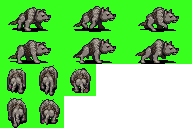
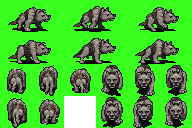
finalise example with two controllers

Changed region(s): [[0.5, 0.5, 1.0, 1.0]]

diff --git a/pyxelutils/examples/sprite_anim.py b/pyxelutils/examples/sprite_anim.py
@@ -2,45 +2,28 @@ from pathlib import Path
 
 import setuptools
 
-from pyxelutils.pyxelutils import color, core, sprite
+from pyxelutils.pyxelutils import color, core, sprite, controllers, text
 import pyxel
 
 
-class ControllerDir(core.BaseGameObject):
-    def __init__(self):
-        self.direction = [0,0]
-
-    def update(self):
-        self.direction = [0, 0]
-        if pyxel.btn(pyxel.KEY_UP) and pyxel.btn(pyxel.KEY_LEFT):
-            self.direction[0] = -1
-            self.direction[1] = -1
-        elif pyxel.btn(pyxel.KEY_UP) and pyxel.btn(pyxel.KEY_RIGHT):
-            self.direction[0] = 1
-            self.direction[1] = -1
-        elif pyxel.btn(pyxel.KEY_DOWN) and pyxel.btn(pyxel.KEY_LEFT):
-            self.direction[0] = -1
-            self.direction[1] = 1
-        elif pyxel.btn(pyxel.KEY_DOWN) and pyxel.btn(pyxel.KEY_RIGHT):
-            self.direction[0] = 1
-            self.direction[1] = 1
-        elif pyxel.btn(pyxel.KEY_LEFT):
-            self.direction[0] = -1
-        elif pyxel.btn(pyxel.KEY_RIGHT):
-            self.direction[0] = 1
-        elif pyxel.btn(pyxel.KEY_UP):
-            self.direction[1] = -1
-        elif pyxel.btn(pyxel.KEY_DOWN):
-            self.direction[1] = 1
-        elif pyxel.btn(pyxel.KEY_UP) and pyxel.btn(pyxel.KEY_LEFT):
-            self.direction[0] = -1
-            self.direction[1] = -1
-
-    def draw(self):
-        pass
+class ActionWalkToClick(sprite.Action):
+    def logic(self):
+        if self.ctrl.pos:
+            if self.x == self.ctrl.pos[0]:
+                self.active.stop()
+            else:
+                if self.ctrl.pos[0] < self.x:
+                    self.active.flip_w = True
+                else:
+                    self.active.flip_w = False
+                self.active = 'side_walk'
+                self.active.start()
+                self.move_until(self.ctrl.pos[0], self.ctrl.pos[1])
+        else:
+            self.active.stop()
 
 
-class ActionWalkSide(sprite.Action):
+class ActionWalk(sprite.Action):
     def logic(self):
         if self.ctrl.direction[0] < 0:
             self.active = 'side_walk'
@@ -53,6 +36,9 @@ class ActionWalkSide(sprite.Action):
         if self.ctrl.direction[1] < 0:
             self.active = 'up_walk'
             self.active.start()
+        if self.ctrl.direction[1] > 0:
+            self.active = 'down_walk'
+            self.active.start()
         if self.ctrl.direction == [0,0]:
             self.active.stop()
         else:
@@ -60,7 +46,14 @@ class ActionWalkSide(sprite.Action):
             self.y += self.ctrl.direction[1]
 
 
+class SwitchLevelPushBtn(core.BaseGameObject):
+    def update(self):
+        if pyxel.btnp(pyxel.KEY_SPACE):
+            print("switch level")
+            core.BaseGame.level_manager.next() or core.BaseGame.level_manager.previous()
 
+    def draw(self):
+        pass
 
 
 class Game(core.BaseGame, pyxel=pyxel, w=256, h=224, cls_color=1):
@@ -78,11 +71,31 @@ class Game(core.BaseGame, pyxel=pyxel, w=256, h=224, cls_color=1):
                                             [(0, 2), (1, 2), (2, 2), (0, 3), (1, 3)],
                                             5, trsp_col=9)
 
-        self.ctrl = ControllerDir()
-        # self.action = ActionWalkSide([self.sprite_side_walk], self.ctrl)
-        self.action = ActionWalkSide(50, 50, 'walk', self.ctrl)
+        self.sprite_down_walk = sprite.Sprite(0, 0, 0, 0, 0, 32, 32,
+                                            [(3, 2), (4, 2), (5, 2), (3, 3), (4, 3), (5, 3)],
+                                            5, trsp_col=9)
+
+        self.ctrl = controllers.DirectionalKeysCtrl()
+        self.action = ActionWalk(50, 50, 'walk', self.ctrl)
         self.action.add_sprite('side_walk', self.sprite_side_walk)
         self.action.add_sprite('up_walk', self.sprite_up_walk, offset_x=15)
+        self.action.add_sprite('down_walk', self.sprite_down_walk, offset_x=15)
+
+        self.txt = text.Simple(30, 200, "SPACE BAR to switch controller")
+
+        self.pp = SwitchLevelPushBtn()
+
+        with self.level_manager.new_level('cltr_click'):
+
+            self.level_manager.add_instance_object(self.pp)
+            self.level_manager.add_instance_object(self.txt)
+
+            self.sprite_side_walk = sprite.Sprite(50, 50, 0, 0, 0, 64, 32,
+                                                  [(0, 0), (1, 0), (2, 0), (0, 1), (1, 1), (2, 1)],
+                                                  5, trsp_col=9)
+            self.ctrl = controllers.MousePointToGround((50, 50, 150, 150), offset_x=-32)
+            self.action = ActionWalkToClick(50, 50, 'walk', self.ctrl)
+            self.action.add_sprite('side_walk', self.sprite_side_walk)
 
         self.run_game()
 

diff --git a/pyxelutils/sprite.py b/pyxelutils/sprite.py
@@ -52,6 +52,7 @@ class Sprite(BaseSprite):
                 count += 1
                 if count == len(lst):
                     count = 0
+        self.generator_def = generator
 
         self.sprite_range = sprite_range
         self.fdps = frame_duration_per_sprite
@@ -60,8 +61,11 @@ class Sprite(BaseSprite):
         self.last_animated_index = next(self.index_generator)
 
         self._stop = False
+        self._play_once = False
 
     def update(self):
+        if self._play_once and self.last_animated_index == self.sprite_range[-1]:
+            return
         if not self._stop and pyxel.frame_count % self.fdps == 0:
             self.last_animated_index = next(self.index_generator)
 
@@ -72,13 +76,19 @@ class Sprite(BaseSprite):
         self.v = v
 
     def reset(self):
-        self.last_animated_index = self.sprite_range[0]
+        self.last_animated_index = self.generator_def(self.sprite_range)
+        self._play_once = False
 
     def start(self):
         self._stop = False
+        self._play_once = False
 
     def stop(self):
         self._stop = True
+
+    def play_once(self):
+        self.reset()
+        self._play_once = True
 
 
 class Action(core.BaseGameObject):
@@ -90,6 +100,8 @@ class Action(core.BaseGameObject):
         self.sprites = dict()
 
         self._active = None
+        self._move_until = ()
+        self._move_until_speed = 1
 
     def add_sprite(self, name: str, sprite: Sprite, offset_x: int = 0, offset_y: int = 0):
         sprite.stop()
@@ -131,5 +143,21 @@ class Action(core.BaseGameObject):
     def update(self):
         self.logic()
         for sprite in self.sprites.values():
-            sprite.x = self.x + sprite.offset_x
-            sprite.y = self.y + sprite.offset_y
+
+            if self._move_until:
+                if self._move_until[0] + sprite.offset_x < sprite.x:
+                    sprite.x -= self._move_until_speed
+                    self.x -= self._move_until_speed
+                elif self._move_until[0] + sprite.offset_x > sprite.x:
+                    sprite.x += self._move_until_speed
+                    self.x += self._move_until_speed
+                else:
+                    return
+
+            else:
+                sprite.x = self.x + sprite.offset_x
+                sprite.y = self.y + sprite.offset_y
+
+    def move_until(self, x, y, speed=1):
+        self._move_until = (x, y)
+        self._move_until_speed = speed

diff --git a/pyxelutils/controllers.py b/pyxelutils/controllers.py
@@ -1,0 +1,57 @@
+import pyxel
+
+from . import core
+from . import mouse as mouse_utils
+
+
+
+class DirectionalKeysCtrl(core.BaseGameObject):
+    def __init__(self):
+        self.direction = [0,0]
+
+    def update(self):
+        self.direction = [0, 0]
+        if pyxel.btn(pyxel.KEY_UP) and pyxel.btn(pyxel.KEY_LEFT):
+            self.direction[0] = -1
+            self.direction[1] = -1
+        elif pyxel.btn(pyxel.KEY_UP) and pyxel.btn(pyxel.KEY_RIGHT):
+            self.direction[0] = 1
+            self.direction[1] = -1
+        elif pyxel.btn(pyxel.KEY_DOWN) and pyxel.btn(pyxel.KEY_LEFT):
+            self.direction[0] = -1
+            self.direction[1] = 1
+        elif pyxel.btn(pyxel.KEY_DOWN) and pyxel.btn(pyxel.KEY_RIGHT):
+            self.direction[0] = 1
+            self.direction[1] = 1
+        elif pyxel.btn(pyxel.KEY_LEFT):
+            self.direction[0] = -1
+        elif pyxel.btn(pyxel.KEY_RIGHT):
+            self.direction[0] = 1
+        elif pyxel.btn(pyxel.KEY_UP):
+            self.direction[1] = -1
+        elif pyxel.btn(pyxel.KEY_DOWN):
+            self.direction[1] = 1
+        elif pyxel.btn(pyxel.KEY_UP) and pyxel.btn(pyxel.KEY_LEFT):
+            self.direction[0] = -1
+            self.direction[1] = -1
+
+    def draw(self):
+        pass
+
+
+class MousePointToGround(core.BaseGameObject):
+    def __init__(self, bbox_ground, mouse=None, offset_x=0, offset_y=0):
+        self.mouse = mouse or mouse_utils.Mouse()
+        self.bbox_ground = bbox_ground
+        self.y_ground = self.bbox_ground[1]
+        self.offset_x = offset_x
+        self.offset_y = offset_y
+
+        self.pos = ()
+
+    def update(self):
+        if self.mouse.is_clicked:
+            self.pos = (self.mouse.clicked_mouse_x + self.offset_x, self.y_ground + self.offset_y)
+
+    def draw(self):
+        pass

diff --git a/pyxelutils/mouse.py b/pyxelutils/mouse.py
@@ -10,7 +10,7 @@ class Mouse(core.BaseGameObject):
         self.col = col
         self.start_time = time.time() * 1000
         self.pressed_time = 0
-        self.is_clicked = True
+        self.is_clicked = False
         self.is_drag = False
         self.clicked_mouse_x = 0
         self.clicked_mouse_y = 0
@@ -51,6 +51,9 @@ class Mouse(core.BaseGameObject):
             self.is_clicked = False
         else:
             self.is_drag = False
+
+        if pyxel.btnp(pyxel.MOUSE_BUTTON_LEFT):
+            self.is_clicked = True
 
         # must be at the end
         if self.is_clicked:
